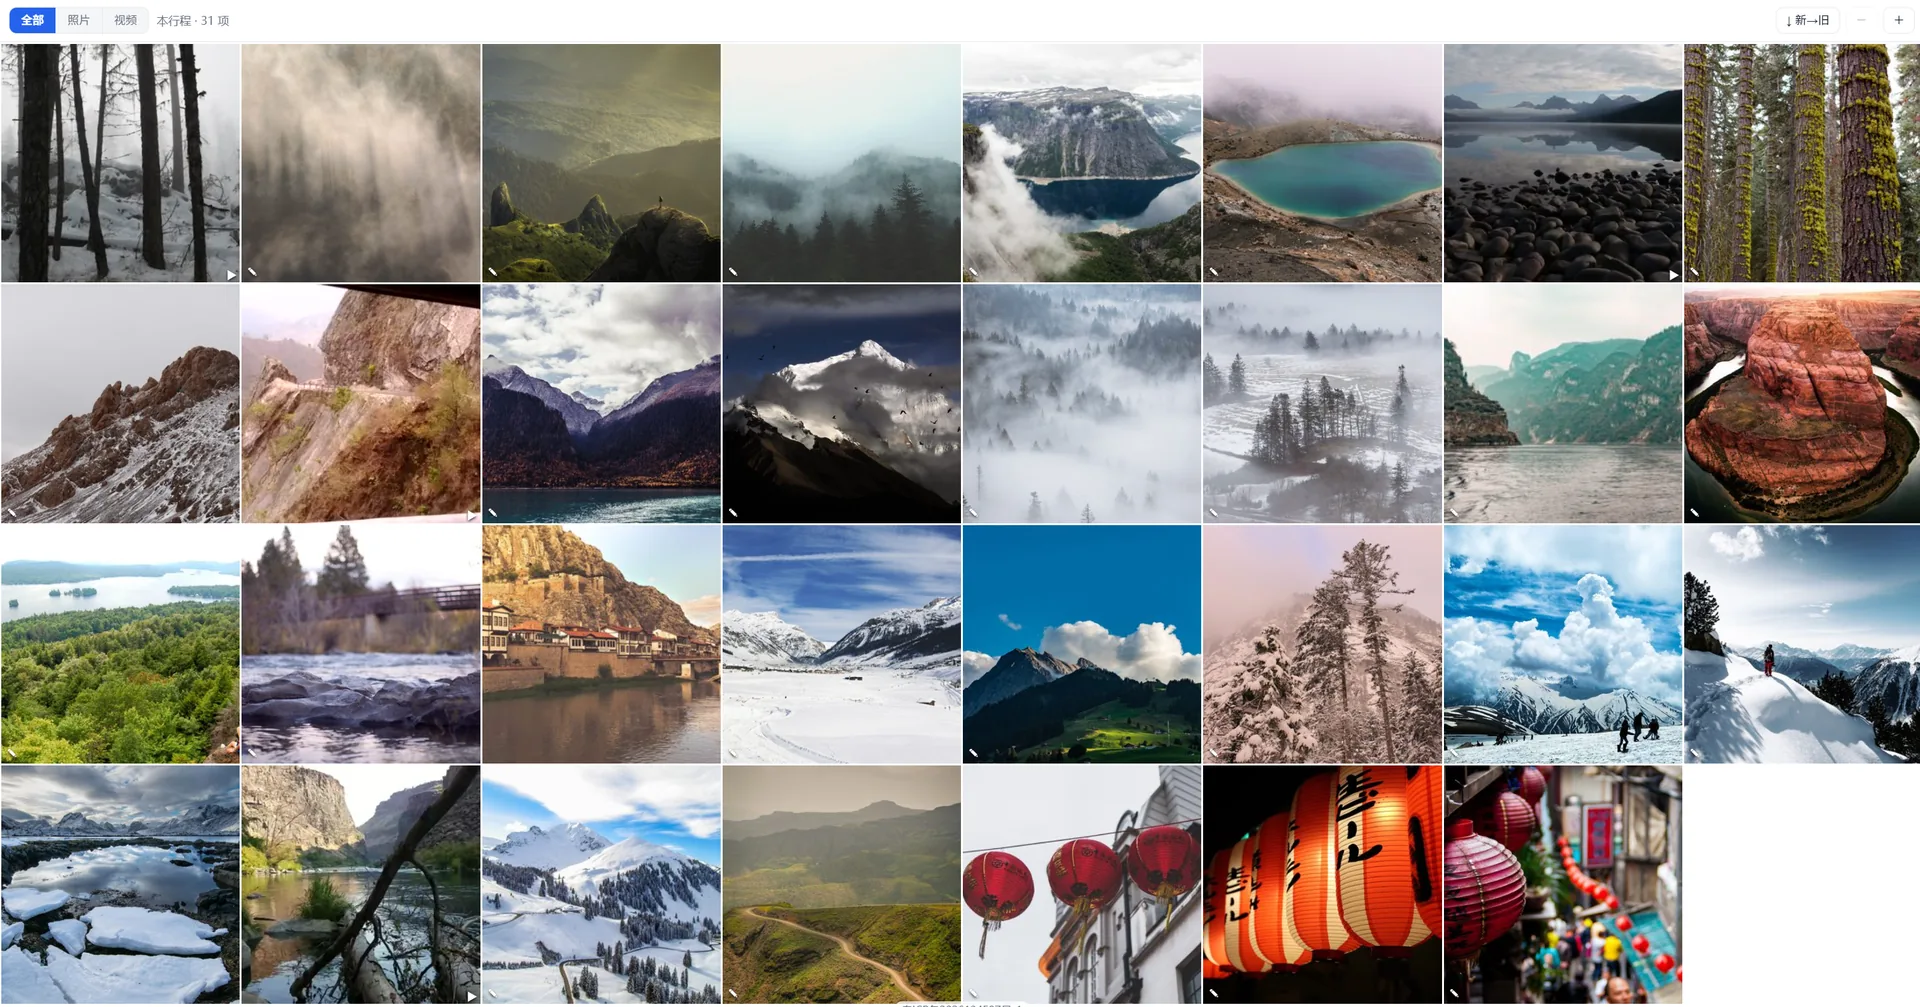
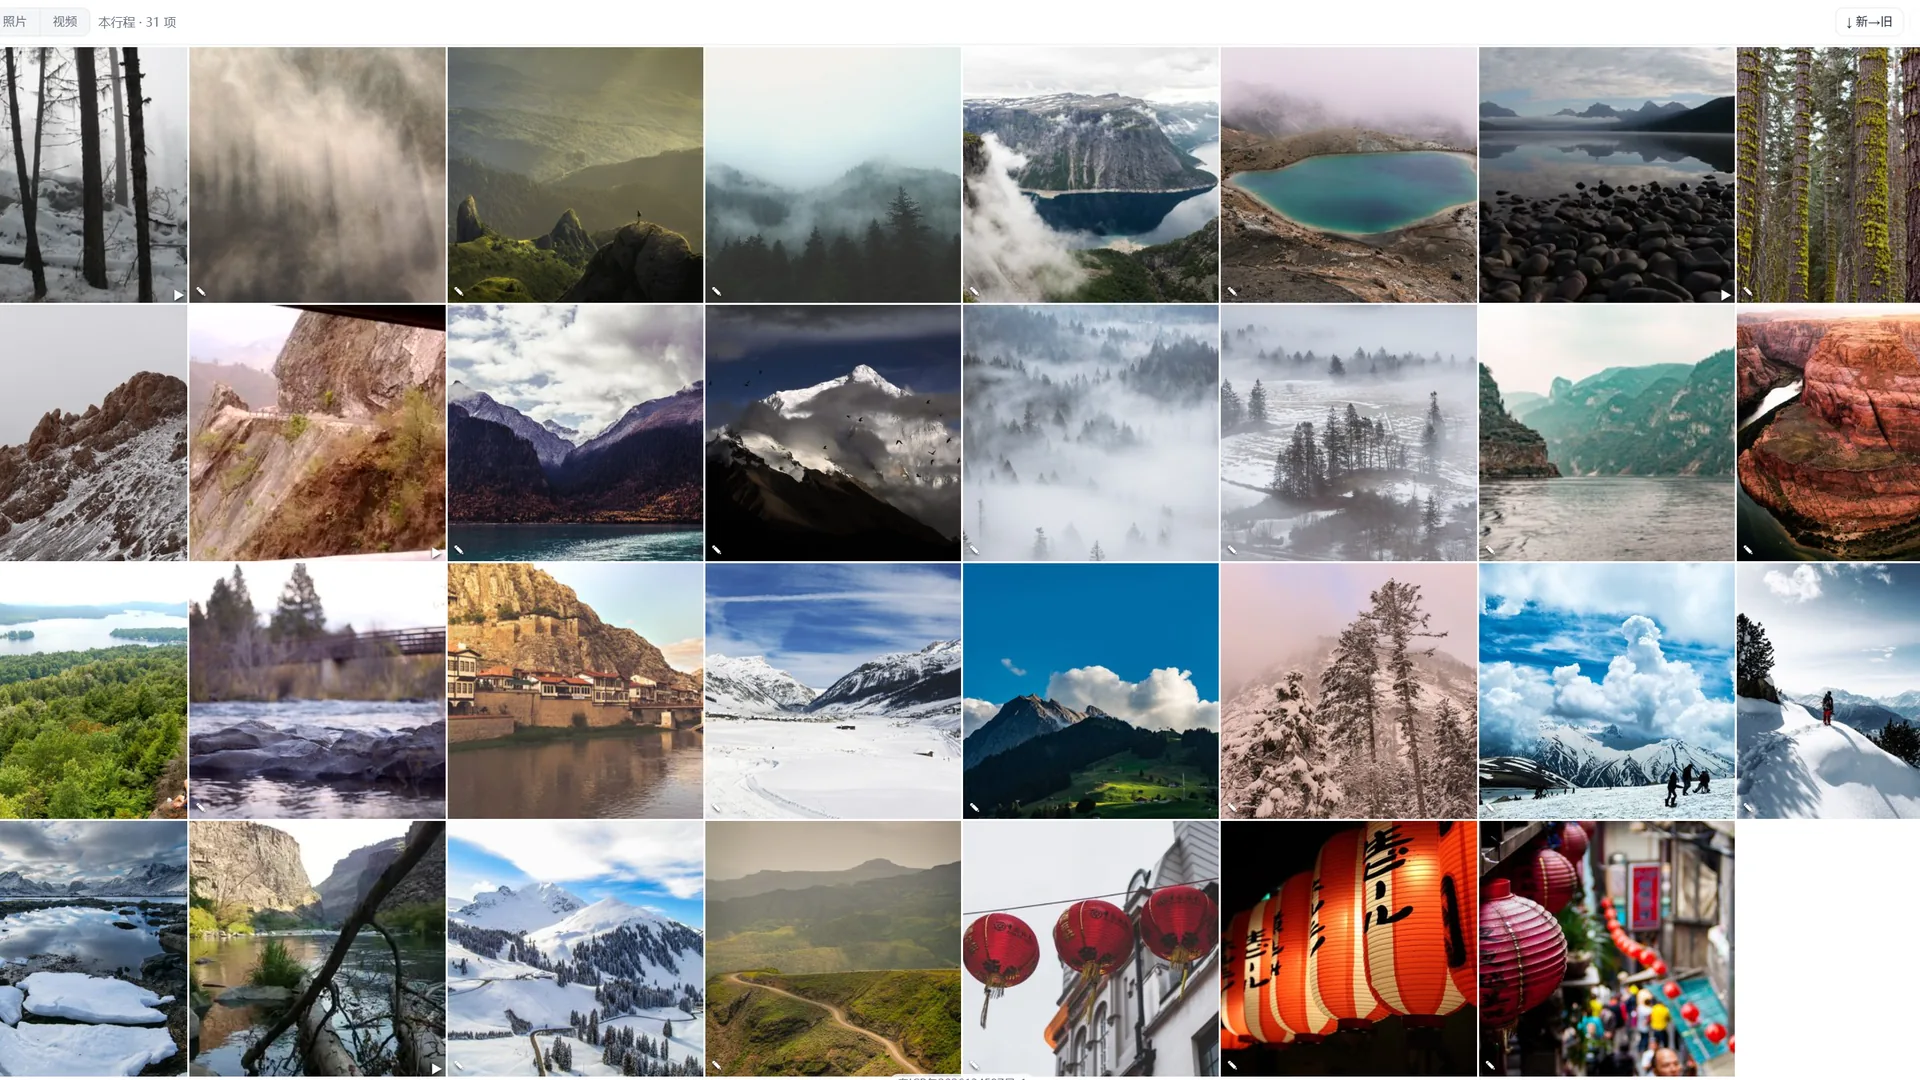
轮播图片：铺满容器不留边，纵向改为顶端对齐裁切
按用户要求调回 cover（铺满、不留边），但裁切位置改成从顶端开始，
不再用默认的居中。

object-position:center top + 加工脚本同步改成 vert-top 裁剪：
  · 原图比容器高 -> 裁下边（保住顶部的工具栏/标题/照片墙第一排，
    丢的是画面下缘，观感上像"镜头往上看了一点"）
  · 原图比容器宽 -> 只能居中裁左右（横向没有"上对齐"）

各图裁剪量（顶端对齐，纵向损失全在下边）：
    P2 1.610 -> 桌面切下 9.4% / 手机切左右各 8.6%
    P3 1.907 -> 桌面切左右各 3.4% / 手机切左右各 15.0%
    P4 1.461 -> 桌面切下 17.9% / 手机切左右各 4.4%

已知取舍：P4 桌面版切掉的那 17.9% 正好落在底部，切掉了半个二维码和
「复制链接 / 保存卡片图片 / 关闭」三个按钮。这是"不留边 + 顶端对齐"
的必然结果，已告知用户可选择为 P4 单独破例。

加工脚本恢复预裁到容器比例（图片固有比例 = 容器比例，页面上的 cover
不会再裁第二次）；HTML 六个 img 的 width/height 同步为 1920x1080 / 1000x750。

验证：Chrome 无头，桌面 1440 + 手机 390，逐屏检查 —— 六张图均铺满容器、
无留边、object-position 为 50% 0%、全部正常加载。

diff --git a/static/landing.html b/static/landing.html
@@ -487,18 +487,25 @@ footer{border-top:1px solid var(--line);padding:44px 0 56px;margin-top:110px}
    **比例必须跟着 .stage 走，不能写死 16/9。** 手机上 .stage 被压成 4/3，
    这里再写 16/9 会让图片比容器高，多出来的部分被 overflow:hidden 切掉 ——
    表现就是"只显示图片上半部分"。现在两边都用 16/9 / 4/3，各出一个版本的图。 */
-/* object-fit 用 contain 而不是 cover：cover 为了填满容器会把多出来的部分
-   **裁掉**，原图比例和容器差得越多切得越狠（P3 在手机上左右各切 15%，
-   照片墙两头整列没了）。这里要的是"完整显示"，宁可留边也不切。
-   留边的颜色用容器同色 #0b0d12，看起来是画面本身有留白，不是"没铺满"。
+/* 铺满容器、不留边：object-fit:cover 把图放大到刚好盖住容器，多出来的裁掉。
+
+   **裁切位置从顶端对齐**（object-position:center top）。默认的 center center
+   是上下各切一半，会把图片顶部切掉 —— 截图类的图顶上是工具栏/导航，照片墙
+   顶上是最完整的那一排，都是最不该丢的部分。顶端对齐后只从底部裁，
+   丢的是画面下缘，观感上像"镜头往上看了一点"，比拦腰截断自然。
+
+   比例对不上时被裁掉多少（顶端对齐，所以损失全在下边）：
+       P2 1.610 -> 桌面切下 9.4% / 手机切左右各 8.6%（宽度方向没得选）
+       P3 1.907 -> 桌面切左右各 3.4% / 手机切左右各 15.0%
+       P4 1.461 -> 桌面切下 17.8% / 手机切左右各 4.4%
+   横向裁剪（原图比容器宽）没有"上对齐"这回事，只能居中；纵向才有。
 
    **宽高都要写死 100%**（跟 .stage-map 一个道理，见上面那条注释）：
    img 是替换元素，只给 width:100% 的话高度会退回它自己的固有比例 ——
    HTML 里 width/height 属性 + 图片固有比例会直接算出盒高，把 aspect-ratio
-   顶掉，盒子就比容器高（实测手机上图 621px vs 容器 280px），图片被顶出画面外。
-   写死 height:100% 让盒子等于容器，contain 再在盒子里居中留边。 */
-.shot-img{display:block;width:100%;height:100%;object-fit:contain;
-  object-position:center;border-radius:4px;background:#0b0d12}
+   顶掉，盒子就比容器高（实测手机上图 621px vs 容器 280px），图片被顶出画面外。 */
+.shot-img{display:block;width:100%;height:100%;object-fit:cover;
+  object-position:center top;border-radius:4px;background:#0b0d12}
 /* 盒子跟着容器走：.stage 是 16/9（手机 4/3），图片在里面 contain 居中。
    高度必须显式给 —— img 是 height:100%，父级没有确定高度的话它退回 auto，
    又变回图片自己的比例。 */
@@ -918,10 +925,10 @@ footer{border-top:1px solid var(--line);padding:44px 0 56px;margin-top:110px}
         <div class="stage carousel-slide" data-slide="1" data-promo-open tabindex="0"
              role="button" aria-label="旅行轨迹：地图上把整条路线串成一条线，点开看演示">
           <div class="stage-shot">
-            <img class="shot-img only-pc" loading="lazy" width="1920" height="1192"
+            <img class="shot-img only-pc" loading="lazy" width="1920" height="1080"
                  src="/static/promo/slide-route-pc.webp"
                  alt="旅行记忆地图：滇藏线上 9 个落脚点按顺序连成一条轨迹，每段标着里程和国道编号">
-            <img class="shot-img only-m" loading="lazy" width="1000" height="621"
+            <img class="shot-img only-m" loading="lazy" width="1000" height="750"
                  src="/static/promo/slide-route-m.webp"
                  alt="旅行记忆地图：滇藏线轨迹与沿途落脚点">
           </div>
@@ -933,10 +940,10 @@ footer{border-top:1px solid var(--line);padding:44px 0 56px;margin-top:110px}
         <div class="stage carousel-slide" data-slide="2" data-promo-open tabindex="0"
              role="button" aria-label="照片墙：整趟旅行的照片视频聚成一面墙，点开看演示">
           <div class="stage-shot">
-            <img class="shot-img only-pc" loading="lazy" width="1920" height="1007"
+            <img class="shot-img only-pc" loading="lazy" width="1920" height="1080"
                  src="/static/promo/slide-wall-pc.webp"
                  alt="旅行记忆相册页：整趟行程的照片墙，缩略图按时间排列并标出视频">
-            <img class="shot-img only-m" loading="lazy" width="1000" height="524"
+            <img class="shot-img only-m" loading="lazy" width="1000" height="750"
                  src="/static/promo/slide-wall-m.webp"
                  alt="旅行记忆相册页：按时间排列的照片墙">
           </div>
@@ -948,10 +955,10 @@ footer{border-top:1px solid var(--line);padding:44px 0 56px;margin-top:110px}
         <div class="stage carousel-slide" data-slide="3" data-promo-open tabindex="0"
              role="button" aria-label="分享旅程：生成分享链接和二维码卡片，点开看演示">
           <div class="stage-shot">
-            <img class="shot-img only-pc" loading="lazy" width="1455" height="996"
+            <img class="shot-img only-pc" loading="lazy" width="1920" height="1080"
                  src="/static/promo/slide-share-pc.webp"
                  alt="旅行记忆分享页：左边设有效期和访问密码，右边是分享链接、二维码和行程缩略图">
-            <img class="shot-img only-m" loading="lazy" width="1000" height="685"
+            <img class="shot-img only-m" loading="lazy" width="1000" height="750"
                  src="/static/promo/slide-share-m.webp"
                  alt="旅行记忆分享页：分享设置与二维码卡片">
           </div>

diff --git a/tools/make-slides.py b/tools/make-slides.py
@@ -1,22 +1,23 @@
 #!/usr/bin/env python3
-"""首页轮播的图片加工：一张原图 -> PC / 手机 两个尺寸的 WebP。
+"""首页轮播的图片加工：一张原图 -> PC(16:9) + 手机(4:3) 两个版本。
 
-原则：**只缩放，绝不裁切。**
+原则：**铺满容器，不留边；纵向从顶端对齐。**
 --------------------
-轮播容器的比例是跟着断点变的（桌面 16/9、手机 4/3），原图的比例跟它俩都对不上。
-以前用 object-fit:cover 填容器，多出来的部分就被裁掉了 —— 原图比例和容器差得越远
-切得越狠，P3（比例 1.91）在手机 4:3 上左右各切 15%，照片墙两头整列直接没了。
+轮播容器的比例是跟着断点变的（桌面 16/9、手机 4/3），原图的比例跟它俩都对不上，
+所以必然要裁掉一些。裁在哪边是有讲究的：
 
-现在页面上改成 object-fit:contain：图完整放进去，比例不符的地方留边，
-留边用容器同色，看起来是画面自带留白。既然不裁了，这边就只需要把像素缩到位。
+  · 原图比容器**高** -> 裁下边，顶端对齐。截图类的图顶上是工具栏/导航，
+    照片墙顶上是最完整的那一排，都是最不该丢的；丢下缘观感上像"镜头往上看了一点"。
+  · 原图比容器**宽** -> 只能居中裁左右。横向没有"上对齐"这回事，
+    而主体通常居中，居中切最公平。
 
-各屏原图比例和留边量（留边是比例的差，不是这张图的毛病）：
-    P2 1.610 -> PC 左右各留 4.7% / 手机 上下各留 8.6%
-    P3 1.907 -> PC 上下各留 3.4% / 手机 上下各留 15.1%
-    P4 1.461 -> PC 左右各留 8.9% / 手机 上下各留 4.3%
+页面上是 object-fit:cover + object-position:center top，同一套规则，
+改一边就要改另一边。
 
-两档尺寸是给不同屏幕的像素密度用的，不是为了适配比例 ——
-比例现在由 contain 自己处理，两张图内容完全一样。
+各图被裁掉多少（顶端对齐，纵向损失全在下边）：
+    P2 1.610 -> 桌面切下 9.4% / 手机切左右各 8.6%
+    P3 1.907 -> 桌面切左右各 3.4% / 手机切左右各 15.0%
+    P4 1.461 -> 桌面切下 17.8% / 手机切左右各 4.4%
 
 用法
 ----
@@ -43,28 +44,34 @@ JOBS = [
 ]
 
 # (后缀, 宽, 高)。跟 landing.html 里 .stage 的断点严格对应，改一边要改两边。
-# (后缀, 缩放后长边像素)。不是容器尺寸 —— 比例交给页面上的 contain 处理，
-# 这里只管给不同像素密度的屏幕备好够用的分辨率。
+# (后缀, 宽, 高)。必须跟 landing.html 里 .stage 的断点严格对应：
+# 桌面 16/9、手机 4/3。改一边就要改两边，否则又会出现"图被裁掉一部分"。
 VARIANTS = [
-    ("pc", 1920),   # 桌面宽屏
-    ("m", 1000),    # 手机（2x/3x 屏也够）
+    ("pc", 1920, 1080),   # 16:9，桌面
+    ("m", 1000, 750),     # 4:3，手机
 ]
 
 QUALITY = 82
 
 
-def fit(im, long_edge):
-    """等比缩放到长边 = long_edge，**不裁切**。
+def cover(im, tw, th):
+    """裁成目标比例再缩放：铺满容器、不留边，**纵向从顶端对齐**。
 
-    这里刻意不裁：原图的比例和轮播容器的比例对不上，裁一刀必然丢内容
-    （P3 在手机上左右各切 15%，照片墙两头整列没了）。页面上用 object-fit:contain
-    完整显示，留边交给容器底色 —— 所以这边只需要把像素缩到位。
+    横向裁剪（原图比目标宽）只能居中 —— 左右没有"上对齐"这回事，
+    而图片的主体通常在中间，居中切最公平。
+    纵向裁剪（原图比目标高）按顶端对齐，只从底部切：截图类的图顶上是
+    工具栏/导航，照片墙顶上是最完整的那一排，都是最不该丢的。
+    这跟页面上 object-position:center top 是同一套规则，两边要一起改。
     """
     w, h = im.size
-    scale = long_edge / max(w, h)
-    if scale >= 1:                        # 本来就比目标小，别放大
-        return im
-    return im.resize((round(w * scale), round(h * scale)), Image.LANCZOS)
+    target = tw / th
+    if w / h > target:                    # 比目标更宽 -> 裁左右，居中
+        nw, nh = int(round(h * target)), h
+        box = (int(round((w - nw) * 0.5)), 0, int(round((w - nw) * 0.5)) + nw, nh)
+    else:                                 # 比目标更高 -> 裁下边，顶端对齐
+        nw, nh = w, int(round(w / target))
+        box = (0, 0, nw, nh)
+    return im.crop(box).resize((tw, th), Image.LANCZOS)
 
 
 def main():
@@ -78,13 +85,13 @@ def main():
             continue
         with Image.open(path) as raw:
             im = raw.convert("RGB")
-        for tag, long_edge in VARIANTS:
-            out = fit(im, long_edge)
+        for tag, tw, th in VARIANTS:
+            out = cover(im, tw, th)
             dst = os.path.join(OUT, f"{base}-{tag}.webp")
             out.save(dst, "WEBP", quality=QUALITY, method=6)
             print(f"{dst}  {os.path.getsize(dst) // 1024} KB  "
                   f"({im.size[0]}x{im.size[1]} -> {out.size[0]}x{out.size[1]})"
-                  f"  比例 {out.size[0] / out.size[1]:.3f}（不裁切）")
+                  f"  比例 {out.size[0] / out.size[1]:.3f}")
     return 1 if missing else 0
 
 
